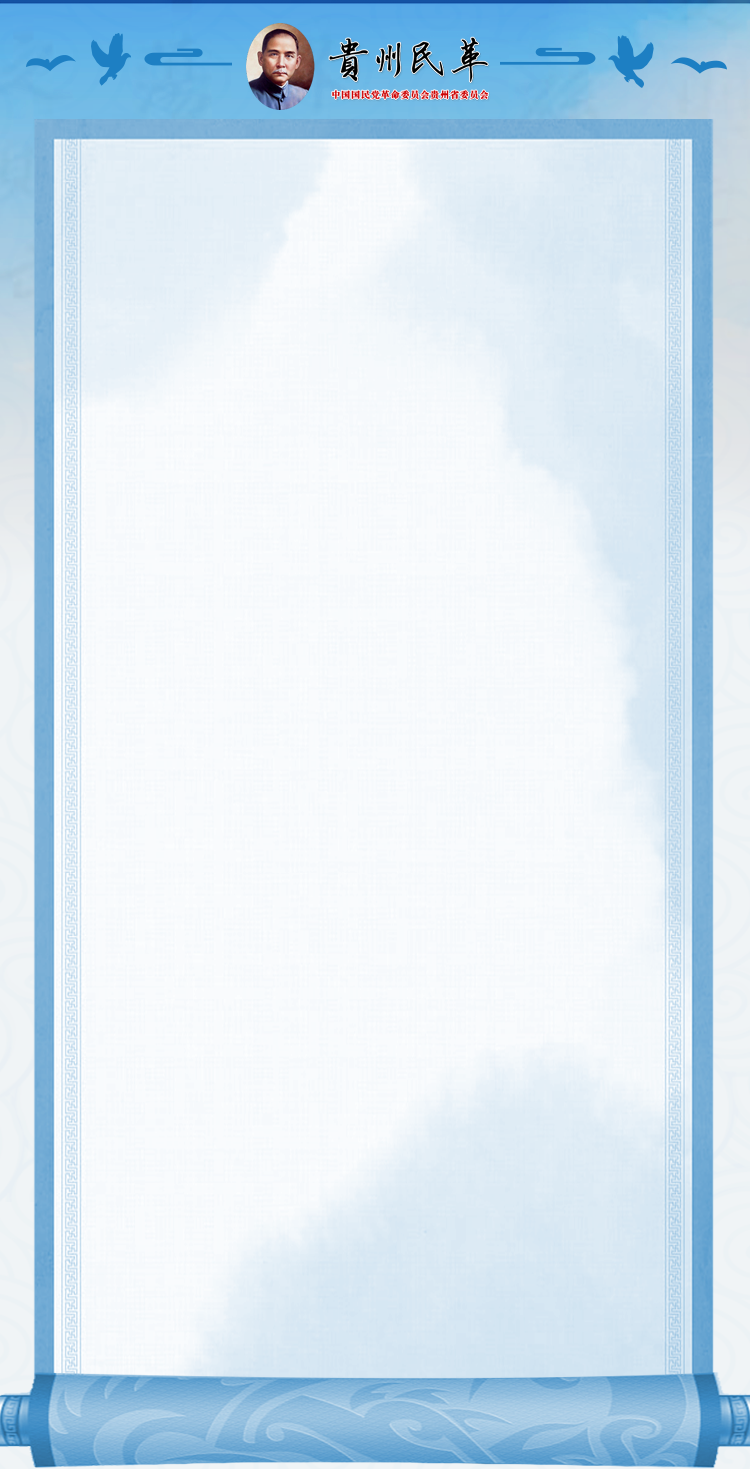
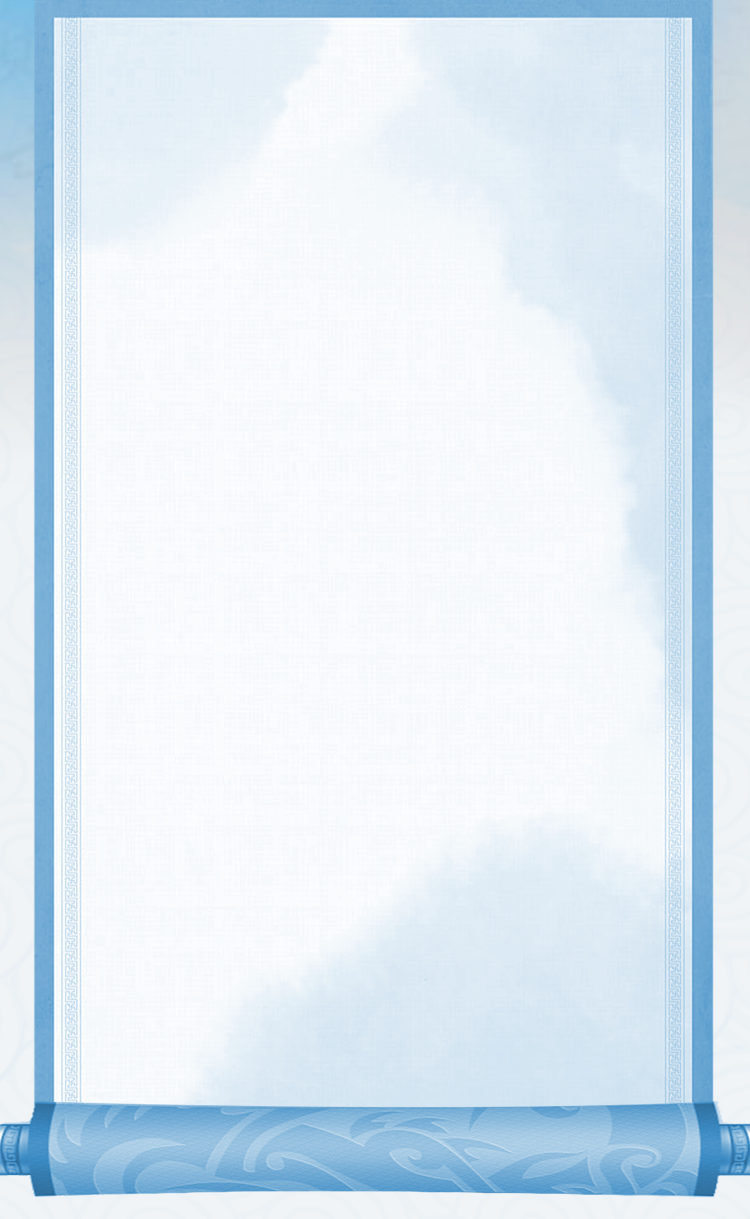
update

diff --git a/src/pages/application/two.vue b/src/pages/application/two.vue
@@ -1,0 +1,85 @@
+<template>
+    <div>
+      <div class="application_header"></div>
+      <div class="application_bg">
+        <div class="container">
+          <div class="content">
+            <el-row>职称</el-row>
+            <el-row><el-input v-model="title" class="inputText" clearable></el-input></el-row>
+            <el-row><span class="necessary">*</span>身份证号码</el-row>
+            <el-row><el-input v-model="IDCard" class="inputText" clearable></el-input></el-row>
+            <el-row><span class="necessary">*</span>学历学位</el-row>
+            <el-row><el-input v-model="degree" class="inputText" clearable></el-input></el-row>
+            <el-row><span class="necessary">*</span>现工作单位</el-row>
+            <el-row><el-input v-model="presentWorkingUnit" class="inputText" clearable></el-input></el-row>
+            <el-row><span class="necessary">*</span>职务</el-row>
+            <el-row><el-row><el-input v-model="job" class="inputText" clearable></el-input></el-row></el-row>
+            <el-row><span class="necessary">*</span>单位地址</el-row>
+            <el-row><el-input v-model="unitAddress" class="inputText" clearable></el-input></el-row>
+            <el-row><span class="necessary">*</span>单位电话</el-row>
+            <el-row><el-input v-model="workTel" class="inputText" clearable></el-input></el-row>
+            <el-row><span class="necessary">*</span>单位邮编</el-row>
+            <el-row><el-input v-model="postcode" class="inputText" clearable></el-input></el-row>
+          </div>
+          <el-row>
+            <el-button type="primary" round class="bottom-btn">下一页</el-button>
+          </el-row>
+        </div>
+      </div>
+    </div>
+</template>
+
+<script>
+    export default {
+      name: "two",
+      data(){
+          return{
+            title:'',
+            IDCard:'',
+            degree:'',
+            presentWorkingUnit:'',
+            job:'',
+            unitAddress:'',
+            workTel:'',
+            postcode:''
+          }
+      }
+    }
+</script>
+
+<style scoped>
+  .container{
+    margin: 4vh 17vw 12vh 17vw;
+  }
+
+  .title{
+    font-size: 1.3rem;
+    font-weight: bold;
+    color: #185a88;
+  }
+
+  .content{
+    text-align: left;
+    margin-top: 2vh;
+  }
+
+  .necessary{
+    color: #cb1414;
+  }
+
+  .content .inputText{
+    padding: .6vh  0 1vh 0;
+  }
+
+  .dateInput{
+    width: 100%;
+  }
+
+  .bottom-btn {
+    margin-top: 1vh;
+    width: 50%;
+    padding: 12px 0;
+    letter-spacing: 1px;
+    box-shadow: 0px 0px 20px 5px #e9e9e9;
+  }
+</style>

diff --git a/src/pages/application/one.vue b/src/pages/application/one.vue
@@ -1,4 +1,6 @@
 <template>
+  <div>
+    <div class="application_header"></div>
     <div class="application_bg">
       <div class="container">
         <div class="title">入党申请书</div>
@@ -19,12 +21,20 @@
                             class="dateInput inputText" :picker-options="pickerOptions1"></el-date-picker>
           </el-row>
           <el-row><span class="necessary">*</span>籍贯</el-row>
-          <el-row></el-row>
+          <el-row>
+            <v-distpicker hide-area class="inputText"></v-distpicker>
+          </el-row>
           <el-row><span class="necessary">*</span>出生地</el-row>
-          <el-row></el-row>
+          <el-row>
+            <v-distpicker hide-area class="inputText"></v-distpicker>
+          </el-row>
         </div>
+        <el-row>
+          <el-button type="primary" round class="bottom-btn">下一页</el-button>
+        </el-row>
       </div>
     </div>
+  </div>
 </template>
 
 <script>
@@ -63,7 +73,7 @@
 
 <style scoped>
   .container{
-    margin: 11vh 17vw;
+    margin: 4vh 17vw 12vh 17vw;
   }
 
   .title{
@@ -86,6 +96,20 @@
   }
 
   .dateInput{
-    width: inherit;
+    width: 100%;
+  }
+
+  .bottom-btn {
+    margin-top: 1vh;
+    width: 50%;
+    padding: 12px 0;
+    letter-spacing: 1px;
+    box-shadow: 0px 0px 20px 5px #e9e9e9;
+  }
+</style>
+
+<style>
+ .content .distpicker-address-wrapper select{
+    width: 48%;
   }
 </style>

diff --git a/src/router/index.js b/src/router/index.js
@@ -94,6 +94,8 @@ import AskRead from '@/pages/read/AskRead'
 
 //入党申请书
 import ApplicationOne from '@/pages/application/one'
+import ApplicationTwo from '@/pages/application/two'
+import ApplicationThree from '@/pages/application/three'
 
 Vue.use(Router)
 
@@ -418,6 +420,20 @@ export default new Router({
       path: '/application/one',
       component: ApplicationOne,
       name: 'ApplicationOne',
+      meta: {
+        requiresAuth: false
+      }
+    },{
+      path: '/application/two',
+      component: ApplicationTwo,
+      name: 'ApplicationTwo',
+      meta: {
+        requiresAuth: false
+      }
+    },{
+      path: '/application/three',
+      component: ApplicationThree,
+      name: 'ApplicationThree',
       meta: {
         requiresAuth: false
       }

diff --git a/static/css/list.css b/static/css/list.css
@@ -145,12 +145,24 @@
   height: 100vh;
 }
 
+.application_header{
+  background-image: url("../image/application_header.png");
+  background-size: 100% 100%;
+  position: absolute;
+  top:0;
+  height: 8vh;
+  width: 100%;
+  overflow-y: hidden;
+}
 .application_bg {
   background-image: url(../image/application_bg.png);
   background-size: 100% 100%;
   position: absolute;
+  top:8vh;
   width: 100%;
-  height: 100vh;
+  height: auto;
+  min-height: 92vh;
+  overflow-y: scroll;
 }
 
 .application_inner_bg {

diff --git a/src/pages/application/three.vue b/src/pages/application/three.vue
@@ -1,0 +1,13 @@
+<template>
+
+</template>
+
+<script>
+    export default {
+        name: "three"
+    }
+</script>
+
+<style scoped>
+
+</style>
